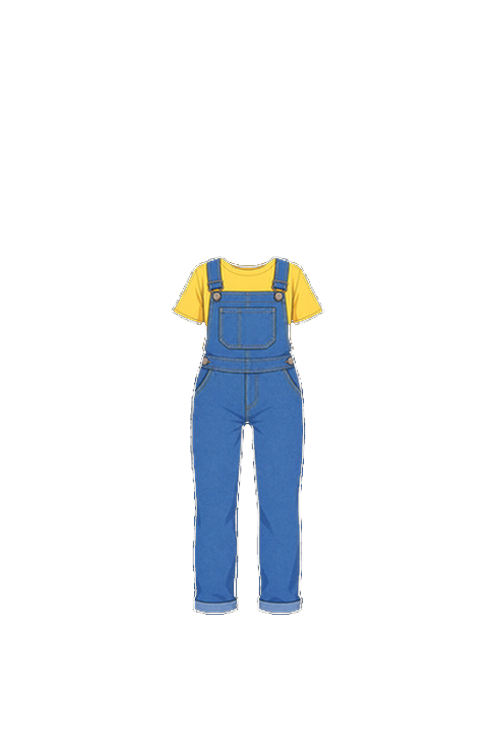
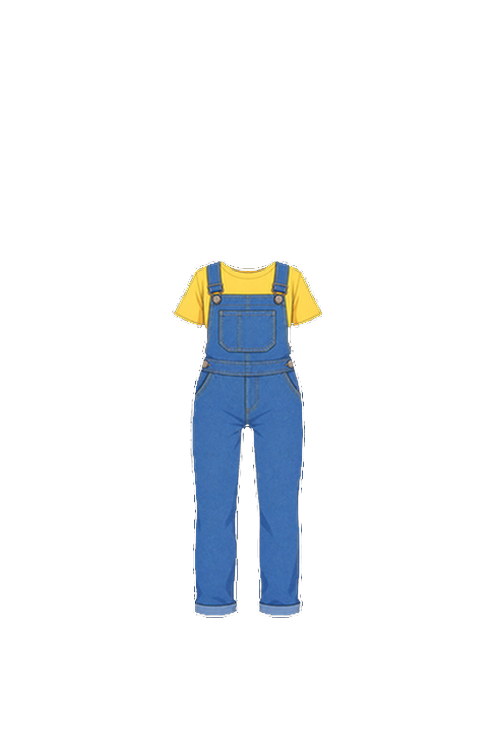
fix: パジャマ・オーバーオール3px下/ピンクくつ5%縮小
Claude-Session: https://claude.ai/code/session_01XMvAfF4jxf9CbKyjmGTEy4

diff --git a/osewa.html b/osewa.html
@@ -803,8 +803,8 @@ window.onerror = function(msg, src, line) {
 var CLOTHES = [
   { name: 'ピンクドレス', img: 'doll_cloth_1.png?v=9', color: '#f9a8d4', shape: 'dress' },
   { name: 'みずいろドレス', img: 'doll_cloth_2.png?v=7', color: '#93c5fd', shape: 'dress' },
-  { name: 'オーバーオール', img: 'doll_cloth_3.png?v=11', color: '#5b8dbf', shape: 'overalls' },
-  { name: 'パジャマ', img: 'doll_cloth_4.png?v=10', color: '#f9c5d1', shape: 'pajama' },
+  { name: 'オーバーオール', img: 'doll_cloth_3.png?v=12', color: '#5b8dbf', shape: 'overalls' },
+  { name: 'パジャマ', img: 'doll_cloth_4.png?v=11', color: '#f9c5d1', shape: 'pajama' },
   { name: 'キラキラドレス', img: 'doll_cloth_5.png?v=7', color: '#f472b6', shape: 'dress' },
 ];
 
@@ -816,7 +816,7 @@ var HAIRS = [
 
 var SHOES = [
   { name: 'はだし', img: null, color: '#fddcb5', emoji: '🦶' },
-  { name: 'ピンクくつ', img: 'doll_shoes_1.png?v=12', color: '#f9a8d4', emoji: '👟' },
+  { name: 'ピンクくつ', img: 'doll_shoes_1.png?v=13', color: '#f9a8d4', emoji: '👟' },
   { name: 'スニーカー', img: 'doll_shoes_2.png?v=10', color: '#93c5fd', emoji: '👟' },
   { name: 'ブーツ', img: 'doll_shoes_3.png?v=10', color: '#8B5E3C', emoji: '👢' },
 ];